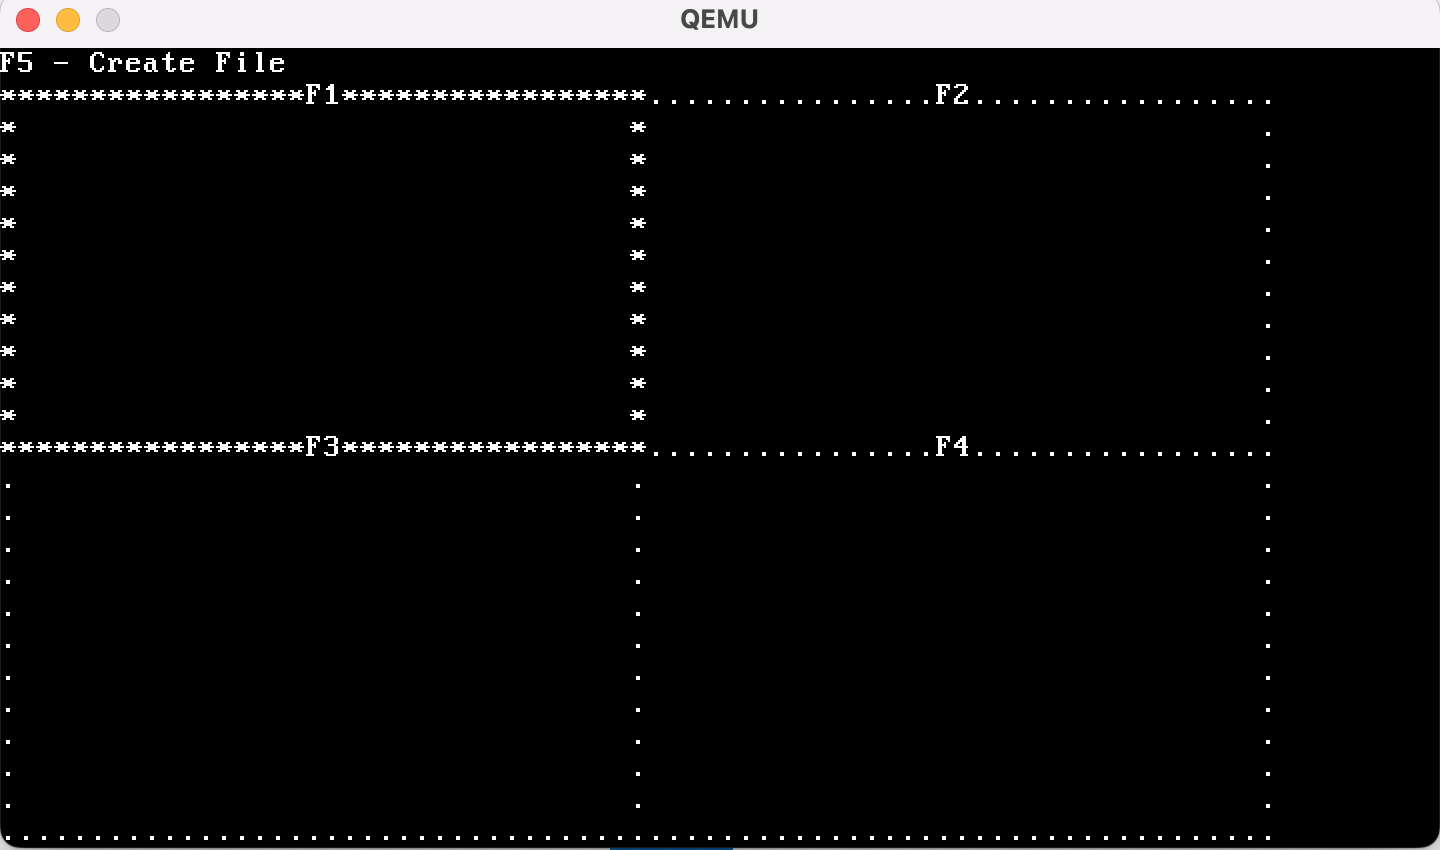
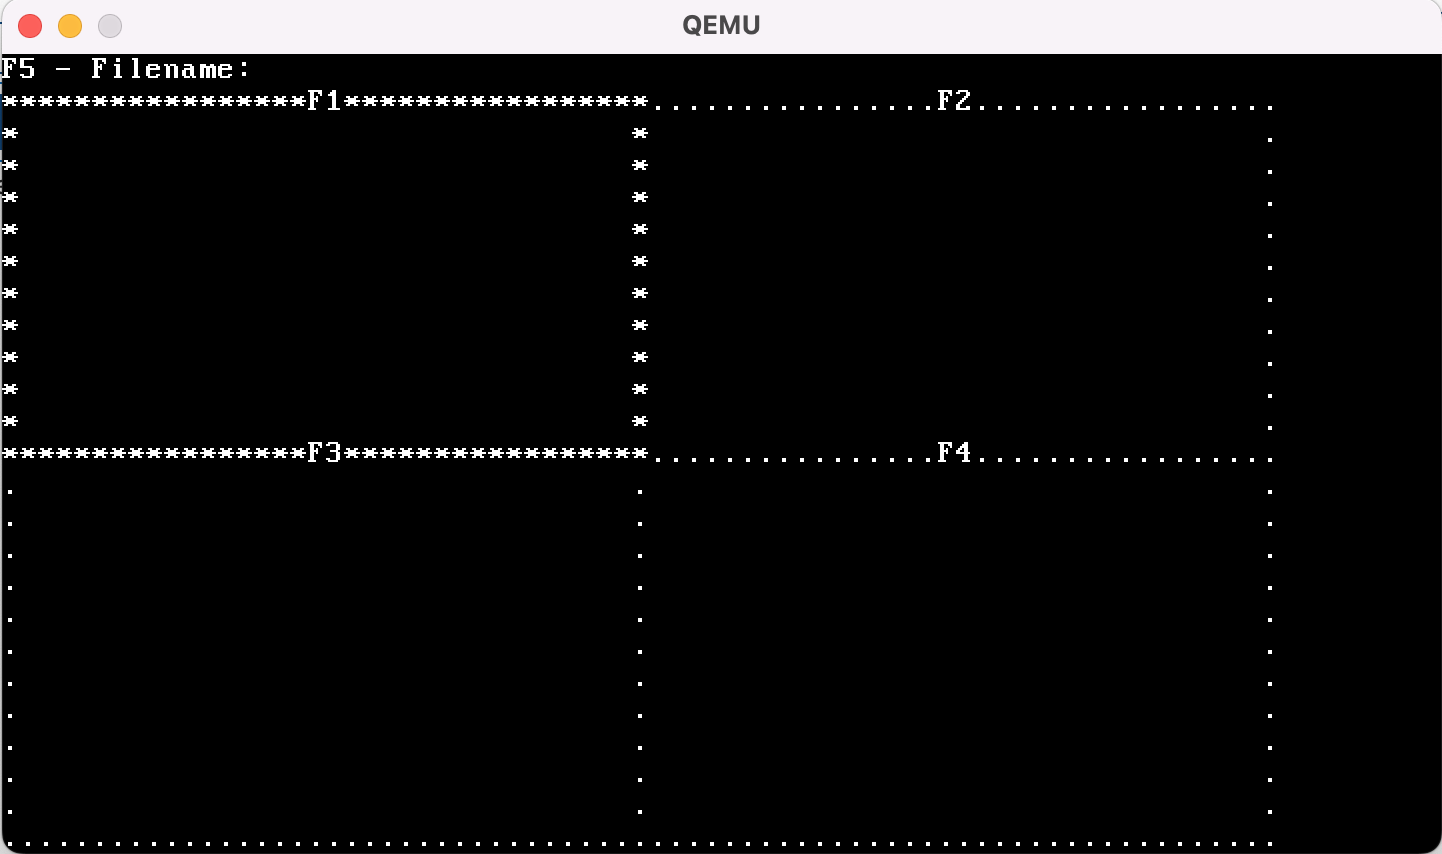
Updated image.

diff --git a/projects/vsk.md b/projects/vsk.md
@@ -39,9 +39,24 @@ After completing Step 1, the kernel should look like this:
 
 <img src="https://hendrix-cs.github.io/csci320/assets/images/vsk_step_1.png" width=500>
 
-## Step 2: File System
+## Step 2: Incorporating the File System
 
-* Add a `list()` method to your file system. 
+* Add a `FileSystem` object to your kernel.
+  * Maximum filename length: 10
+  * Maximum number of files: 30
+  * [Tell them the other constant stats to use]
+* Add a `list()` method to your file system.
+  * Each window should display the names of all of the files in the file system,
+    in three columns.
+* When `F5` is selected, the user can enter a filename of up to 12 characters.
+  * When the user types the backspace (Unicode ``\u{8}``), it erases the previous 
+    character.
+* When the user hits one of the other function keys, it switches to the
+  designated buffer and activates the editor. 
+  * The filename appears as part of the window header, after the function key.
+  * As with the filename editing, each keystroke appears in the appropriate window,
+    with the backspace operating properly as well.
+  * Entering `F6` closes the file.
 
 ################################
 
